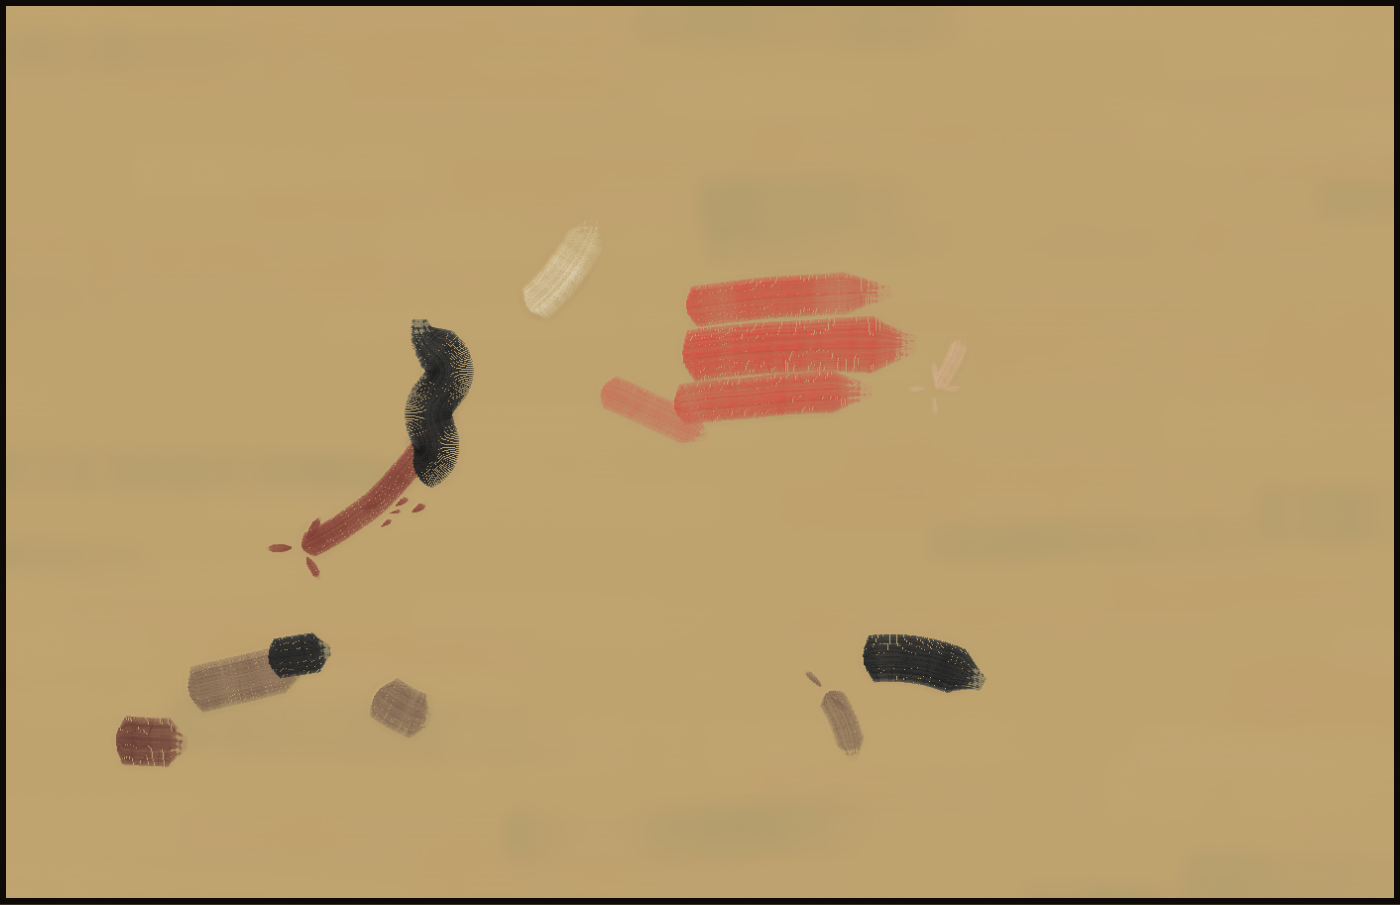
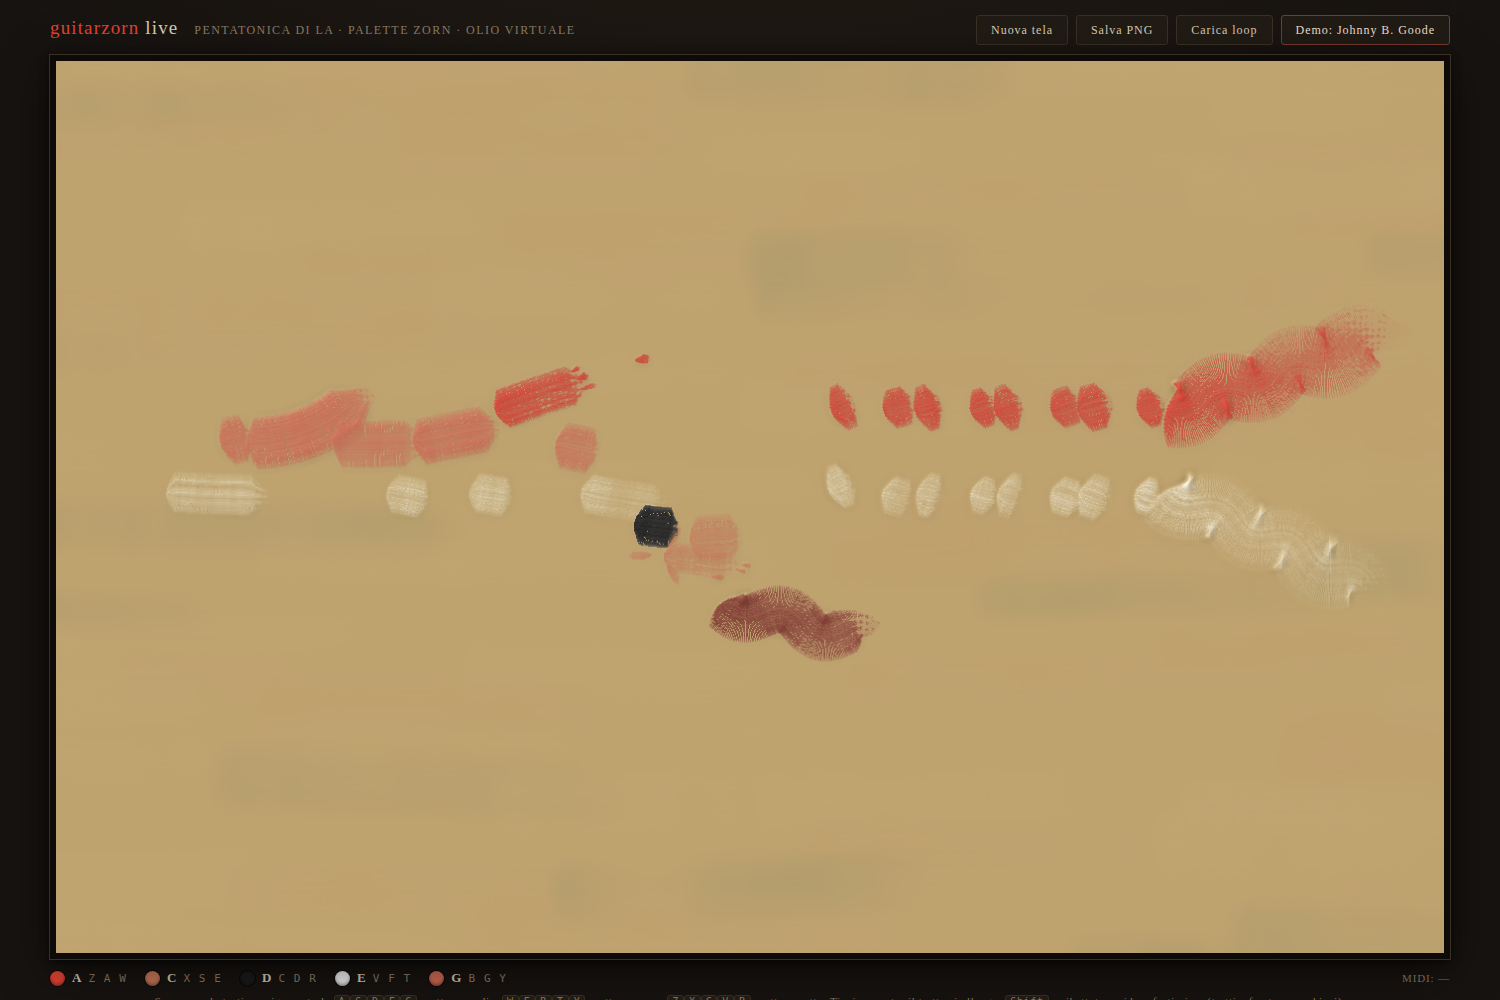
Il riff ora È Johnny B. Goode: partitura corretta + swing + glide audio
Il riff precedente era un'invenzione (12 note con tapping/dive/armonici
che nell'intro vero non esistono). Sostituito con l'intro autentico di
Chuck Berry in LA, 4 battute:
- battuta 1: slide E4->G4, sol ribattuto, BEND G4->A4 (il "pianto"),
  dondolo G-E in crome swing
- battuta 2: discesa Chuck Berry A-G-E-D con hammer C->C# (b3->3),
  arrivo su A3 con vibrato
- battute 3-4: il "campanello" — double-stop A4+E4 ribattuti in shuffle
  staccato (f/mf alternati), accordo finale lungo con vibrato

- score.py: partitura canonica condivisa (MIDI diretto — elimina alla
  radice il bug tuning; swing 2/3+1/3 cotto nei tempi; schema con dyad,
  slide_to, bend, hammer_to)
- live: demo a 168bpm con tempi espliciti; dyad = due voci simultanee
  (due pennellate ai rispettivi Y, colori propri, wet-on-wet sulla voce
  acuta); audioGlide() piega l'intonazione per slide (rapido) e bend
  (ritardato e lento, il pianto di Chuck Berry); hammer-on con glide
- verificato con Playwright: 539 frame, max 16.6ms/frame, zero errori

https://claude.ai/code/session_01YHYaY3hzsgVUD5dcHi8sfs

diff --git a/live/guitarzorn_live.html b/live/guitarzorn_live.html
@@ -580,7 +580,7 @@ function noteOn(id, midi, vel, opts){
     x, y, angle: ang, curvRate, conc,
     waviness: opts.waviness || 0, waveLen: opts.waveLen || 42,
     width, opacity: vp.opacity, thickness: vp.thickness * (opts.thickMul || 1),
-    dryness: dry, smear: 0.38, speed,
+    dryness: dry, smear: opts.smear !== undefined ? opts.smear : 0.38, speed,
     depleteLen: 320 + 340 * Math.min(vel, 1.4),
     kandinsky: !whip
   };
@@ -602,6 +602,8 @@ function noteOn(id, midi, vel, opts){
   if (whip) spawnDroplets(x, y, ang, conc, vel);
 
   const voice = audioNoteOn(midi, vel, opts.fifth);
+  if (opts.glideTo != null)
+    audioGlide(voice, opts.glideTo, opts.glideDelay || 0.02, opts.glideTime || 0.12);
   activeNotes.set(id, { strokes, voice });
   return { x, y, ang, conc };
 }
@@ -660,6 +662,21 @@ function audioNoteOn(midi, vel, fifth){
   const vs = [pluck(midi, vel, t)];
   if (fifth) vs.push(pluck(midi + 7, vel * 0.8, t));    // powerchord
   return vs;
+}
+function audioGlide(vs, toMidi, delaySec, rampSec){
+  // piega l'intonazione delle voci attive: slide (subito, veloce)
+  // e bend (ritardato, lento — il "pianto" di Chuck Berry)
+  if (!AC || !vs) return;
+  const f = 440 * Math.pow(2, (toMidi - 69) / 12);
+  const t = AC.currentTime + (delaySec || 0);
+  for (const v of vs){
+    try {
+      v.o1.frequency.setValueAtTime(v.o1.frequency.value, t);
+      v.o1.frequency.exponentialRampToValueAtTime(f, t + rampSec);
+      v.o2.frequency.setValueAtTime(v.o2.frequency.value, t);
+      v.o2.frequency.exponentialRampToValueAtTime(f * 2.003, t + rampSec);
+    } catch (e) {}
+  }
 }
 function audioNoteOff(vs){
   if (!AC || !vs) return;
@@ -771,32 +788,55 @@ const statusEl = document.getElementById('status');
 })();
 
 /* ============================================================================
-   9. DEMO — Johnny B. Goode (12 note da parse_riff v7, tuning[6-string] FIX)
-   MIDI ricavati con tuning=[40,45,50,55,59,64], midi=tuning[6-string]+fret,
-   poi agganciati alla pitch class dichiarata (i dati fret/corda di 4 note
-   sono incoerenti nel sorgente v7: si fa fede al nome della nota).
+   9. DEMO — Johnny B. Goode: l'INTRO VERO (Chuck Berry), in LA, shuffle.
+   Partitura canonica condivisa con score.py — swing gia' cotto nei tempi
+   (coppie di crome = 2/3 + 1/3 di beat), MIDI diretto.
+   Battuta 1: slide E4->G4, sol ribattuto, BEND G4->A4 (il "pianto"),
+              dondolo G-E. Battuta 2: discesa Chuck Berry con hammer C->C#,
+              arrivo su A3 vibrato. Battute 3-4: il "campanello" — double
+              stop A4+E4 (fondamentale+quinta) ribattuti, poi accordo finale.
    ========================================================================= */
 const RIFF = [
-  { pc:'A', midi:45, dur:0.50, vel:0.95, tech:'staccato' },
-  { pc:'C', midi:48, dur:0.50, vel:1.20, tech:'legato' },
-  { pc:'D', midi:50, dur:0.25, vel:1.20, tech:'slide' },
-  { pc:'A', midi:57, dur:0.50, vel:0.95, tech:'hammer_on' },
-  { pc:'C', midi:48, dur:0.25, vel:1.20, tech:'bend' },
-  { pc:'D', midi:62, dur:0.75, vel:1.20, tech:'vibrato' },
-  { pc:'E', midi:72, dur:0.50, vel:1.20, tech:'harmonic_natural' },
-  { pc:'G', midi:67, dur:0.50, vel:0.75, tech:'legato' },
-  { pc:'A', midi:69, dur:1.00, vel:1.20, tech:'powerchord' },
-  { pc:'C', midi:48, dur:0.25, vel:0.95, tech:'tapping' },
-  { pc:'D', midi:50, dur:0.50, vel:1.20, tech:'dive' },
-  { pc:'G', midi:67, dur:0.25, vel:0.55, tech:'harmonic_artificial' }
+  // battuta 1 — figura d'apertura
+  { midi:64, t:0.000, d:0.667, vel:1.20, tech:'slide', glideTo:67 },
+  { midi:67, t:0.667, d:0.333, vel:0.95, tech:'staccato' },
+  { midi:67, t:1.000, d:1.000, vel:1.40, tech:'bend', bendTo:69 },
+  { midi:67, t:2.000, d:0.667, vel:1.20, tech:'legato' },
+  { midi:64, t:2.667, d:0.333, vel:0.95, tech:'legato' },
+  { midi:67, t:3.000, d:0.667, vel:1.20, tech:'legato' },
+  { midi:64, t:3.667, d:0.333, vel:0.95, tech:'legato' },
+  // battuta 2 — discesa Chuck Berry
+  { midi:69, t:4.000, d:0.667, vel:1.20, tech:'staccato' },
+  { midi:67, t:4.667, d:0.333, vel:1.20, tech:'legato' },
+  { midi:64, t:5.000, d:0.667, vel:0.95, tech:'legato' },
+  { midi:62, t:5.667, d:0.333, vel:0.95, tech:'legato' },
+  { midi:60, t:6.000, d:0.333, vel:1.20, tech:'hammer_on', glideTo:61 },
+  { midi:61, t:6.333, d:0.334, vel:1.20, tech:'legato' },
+  { midi:57, t:6.667, d:1.333, vel:1.20, tech:'vibrato' },
+  // battute 3-4 — il "campanello" (double-stop, shuffle f/mf)
+  { dyad:[64,69], t: 8.000, d:0.30, vel:1.20, tech:'double_stop' },
+  { dyad:[64,69], t: 8.667, d:0.30, vel:0.95, tech:'double_stop' },
+  { dyad:[64,69], t: 9.000, d:0.30, vel:1.20, tech:'double_stop' },
+  { dyad:[64,69], t: 9.667, d:0.30, vel:0.95, tech:'double_stop' },
+  { dyad:[64,69], t:10.000, d:0.30, vel:1.20, tech:'double_stop' },
+  { dyad:[64,69], t:10.667, d:0.30, vel:0.95, tech:'double_stop' },
+  { dyad:[64,69], t:11.000, d:0.30, vel:1.20, tech:'double_stop' },
+  { dyad:[64,69], t:11.667, d:0.30, vel:0.95, tech:'double_stop' },
+  { dyad:[64,69], t:12.000, d:2.000, vel:1.40, tech:'double_stop_final' }
 ];
-function techOpts(tech, midi){
+const DEMO_BPM = 168;   // lo shuffle di Chuck Berry corre
+function techOpts(tech, midi, ev, noteIdx){
+  ev = ev || {};
   switch (tech){
     case 'staccato':  return { dryness: 0.42, widthMul: 1.2, thickMul: 1.05 };
     case 'legato':    return { dryness: 0.34, noWhip: true };
-    case 'slide':     return { curvRate: 0, dryness: 0.5, widthMul: 0.85, speedMul: 1.25 };
-    case 'hammer_on': return { widthMul: 0.9 };
-    case 'bend':      return { curvRate: -0.006, thickMul: 1.1, noWhip: true };
+    case 'slide':     return { curvRate: 0, dryness: 0.5, widthMul: 0.9,
+                               speedMul: 1.25, noWhip: true,
+                               glideTo: ev.glideTo, glideTime: 0.13 };
+    case 'hammer_on': return { widthMul: 0.9,
+                               glideTo: ev.glideTo, glideDelay: 0.05, glideTime: 0.05 };
+    case 'bend':      return { curvRate: -0.006, thickMul: 1.15, noWhip: true,
+                               glideTo: ev.bendTo, glideDelay: 0.08, glideTime: 0.22 };
     case 'vibrato':   return { waviness: 10, waveLen: 95, noWhip: true };
     case 'harmonic_natural':
       return { colorConc: mixConc(C_WHITE, C_OCHRE, 0.06), widthMul: 0.85,
@@ -804,6 +844,14 @@ function techOpts(tech, midi){
     case 'powerchord':return { slabs: 3, thickMul: 1.25, widthMul: 1.1,
                                fifth: true, dryness: 0.22, noWhip: true,
                                colorConc: mixConc(noteConc(midi), noteConc(midi+7), 0.16) };
+    // double-stop: due pennellate sovrapposte, la voce acuta (noteIdx=1)
+    // smeara di piu' — wet-on-wet, i colori si trascinano (mapping v2 #12)
+    case 'double_stop':
+      return { dryness: 0.40, widthMul: 1.0, thickMul: 1.15, noWhip: true,
+               smear: noteIdx === 1 ? 0.5 : 0.3 };
+    case 'double_stop_final':
+      return { waviness: 8, waveLen: 85, widthMul: 1.25, thickMul: 1.4,
+               dryness: 0.22, noWhip: true, smear: noteIdx === 1 ? 0.5 : 0.3 };
     case 'tapping':   return { widthMul: 0.7, speedMul: 1.4 };
     case 'dive':      return { curvRate: 0.0055, dryness: 0.46, noWhip: true };
     case 'harmonic_artificial':
@@ -821,20 +869,24 @@ function runDemo(){
   ensureAudio();
   prevMidi = null;
   clockX = MARGIN + 30;
-  const BEAT = 640;                          // ms per beat
+  const BEAT = 60000 / DEMO_BPM;             // 168 bpm -> ~357 ms/beat
   const t0 = performance.now() + 200;
-  let t = 0;
   demoQ = [];
-  RIFF.forEach((n, i) => {
-    const on = t0 + t * BEAT;
-    const holdF = n.tech === 'staccato' ? 0.45 : 0.82;
-    const off = on + n.dur * BEAT * holdF;
-    demoQ.push({ t: on, type: 'on', id: 'demo' + i, midi: n.midi,
-                 vel: n.vel, opts: techOpts(n.tech, n.midi), tech: n.tech });
-    demoQ.push({ t: off, type: 'off', id: 'demo' + i });
-    t += n.dur;
+  let idc = 0, endT = t0;
+  RIFF.forEach((n) => {
+    const notes = n.dyad || [n.midi];        // dyad = due voci simultanee
+    const holdF = (n.tech === 'staccato' || n.tech === 'double_stop') ? 0.5 : 0.85;
+    notes.forEach((m, k) => {
+      const id = 'demo' + (idc++);
+      const on  = t0 + n.t * BEAT;
+      const off = on + n.d * BEAT * holdF;
+      endT = Math.max(endT, off);
+      demoQ.push({ t: on, type: 'on', id, midi: m, vel: n.vel,
+                   opts: techOpts(n.tech, m, n, k), tech: n.tech });
+      demoQ.push({ t: off, type: 'off', id });
+    });
   });
-  demoQ.push({ t: t0 + t * BEAT + 900, type: 'end' });
+  demoQ.push({ t: endT + 900, type: 'end' });
   demoQ.sort((a, b) => a.t - b.t);
 }
 window.runDemo = runDemo;

diff --git a/score.py b/score.py
@@ -1,0 +1,88 @@
+"""
+guitarzorn — partitura canonica: intro di Johnny B. Goode (Chuck Berry)
+========================================================================
+Versione in LA (l'originale è in Si bemolle), 4 battute, shuffle.
+Lo swing è "cotto" nei tempi: le coppie di crome swing sono 2/3 + 1/3
+di beat, così pittura e audio condividono la stessa griglia temporale.
+
+Struttura riconoscibile dell'intro:
+  Battuta 1 — figura d'apertura: slide E4→G4, sol ribattuto, BEND G4→A4
+              (il bend "piangente"), poi il dondolo G-E in legato swing.
+  Battuta 2 — discesa Chuck Berry: A4 G4 E4 D4, hammer C4→C#4 (il passo
+              b3→3 marchio di fabbrica), arrivo su A3 con vibrato.
+  Battute 3-4 — il "campanello": double-stop A4+E4 (fondamentale+quinta)
+              ribattuti in shuffle staccato, alternanza forte/medio, poi
+              l'accordo finale lungo con vibrato.
+
+Ogni evento è codificato con MIDI diretto (niente corda/tasto: elimina
+alla radice il bug di tuning della v7 segnalato dall'Agente 2).
+
+Schema evento:
+  midi      int              nota singola (oppure usare 'dyad')
+  dyad      [int, int]       double-stop (grave, acuto) — pittura bicolore
+  t         float            inizio in beat (swing già applicato)
+  d         float            durata in beat
+  vel       'p'..'ff'        dinamica
+  tech      str              tecnica → forma pittorica
+  slide_to  int (opz.)       MIDI d'arrivo dello slide
+  bend      int (opz.)       semitoni di bend
+  hammer_to int (opz.)       MIDI d'arrivo dell'hammer-on
+"""
+
+TEMPO_BPM = 168          # lo shuffle di Chuck Berry corre
+BEATS_TOTAL = 14.5       # 3.5 battute + coda dell'accordo finale
+SWING = (2 / 3, 1 / 3)   # coppia di crome swing (già cotta nei tempi sotto)
+
+JOHNNY_B_GOODE_INTRO = [
+    # ── Battuta 1: figura d'apertura ──────────────────────────────────────
+    dict(midi=64, t=0.000, d=0.667, vel='f',  tech='slide', slide_to=67),
+    dict(midi=67, t=0.667, d=0.333, vel='mf', tech='staccato'),
+    dict(midi=67, t=1.000, d=1.000, vel='ff', tech='bend', bend=2),
+    dict(midi=67, t=2.000, d=0.667, vel='f',  tech='legato'),
+    dict(midi=64, t=2.667, d=0.333, vel='mf', tech='legato'),
+    dict(midi=67, t=3.000, d=0.667, vel='f',  tech='legato'),
+    dict(midi=64, t=3.667, d=0.333, vel='mf', tech='legato'),
+    # ── Battuta 2: discesa Chuck Berry ────────────────────────────────────
+    dict(midi=69, t=4.000, d=0.667, vel='f',  tech='staccato'),
+    dict(midi=67, t=4.667, d=0.333, vel='f',  tech='legato'),
+    dict(midi=64, t=5.000, d=0.667, vel='mf', tech='legato'),
+    dict(midi=62, t=5.667, d=0.333, vel='mf', tech='legato'),
+    dict(midi=60, t=6.000, d=0.333, vel='f',  tech='hammer_on', hammer_to=61),
+    dict(midi=61, t=6.333, d=0.334, vel='f',  tech='legato'),
+    dict(midi=57, t=6.667, d=1.333, vel='f',  tech='vibrato'),
+    # ── Battute 3-4: il "campanello" (double-stop A4+E4, shuffle) ────────
+    dict(dyad=[64, 69], t= 8.000, d=0.30, vel='f',  tech='double_stop'),
+    dict(dyad=[64, 69], t= 8.667, d=0.30, vel='mf', tech='double_stop'),
+    dict(dyad=[64, 69], t= 9.000, d=0.30, vel='f',  tech='double_stop'),
+    dict(dyad=[64, 69], t= 9.667, d=0.30, vel='mf', tech='double_stop'),
+    dict(dyad=[64, 69], t=10.000, d=0.30, vel='f',  tech='double_stop'),
+    dict(dyad=[64, 69], t=10.667, d=0.30, vel='mf', tech='double_stop'),
+    dict(dyad=[64, 69], t=11.000, d=0.30, vel='f',  tech='double_stop'),
+    dict(dyad=[64, 69], t=11.667, d=0.30, vel='mf', tech='double_stop'),
+    # accordo finale: lungo, fortissimo, con vibrato
+    dict(dyad=[64, 69], t=12.000, d=2.000, vel='ff', tech='double_stop_final'),
+]
+
+# Nota → classe di pitch per il colore Zorn (mapping v2, Agente 2)
+PITCH_CLASS_NAMES = {0: 'C', 2: 'D', 4: 'E', 5: 'F', 7: 'G', 9: 'A', 10: 'Bb', 11: 'B'}
+
+
+def pitch_class(midi: int) -> str:
+    """Nome della classe di pitch (per il mapping colore)."""
+    pc = midi % 12
+    if pc in PITCH_CLASS_NAMES:
+        return PITCH_CLASS_NAMES[pc]
+    # cromatismi (es. C#4 dell'hammer): risolvi al semitono inferiore
+    return PITCH_CLASS_NAMES.get((pc - 1) % 12, 'A')
+
+
+def octave(midi: int) -> int:
+    return midi // 12 - 1
+
+
+if __name__ == '__main__':
+    for e in JOHNNY_B_GOODE_INTRO:
+        notes = e.get('dyad') or [e['midi']]
+        names = '+'.join(f"{pitch_class(m)}{octave(m)}" for m in notes)
+        print(f"t={e['t']:6.3f}  d={e['d']:5.3f}  {e['vel']:2s}  "
+              f"{e['tech']:16s}  {names}")